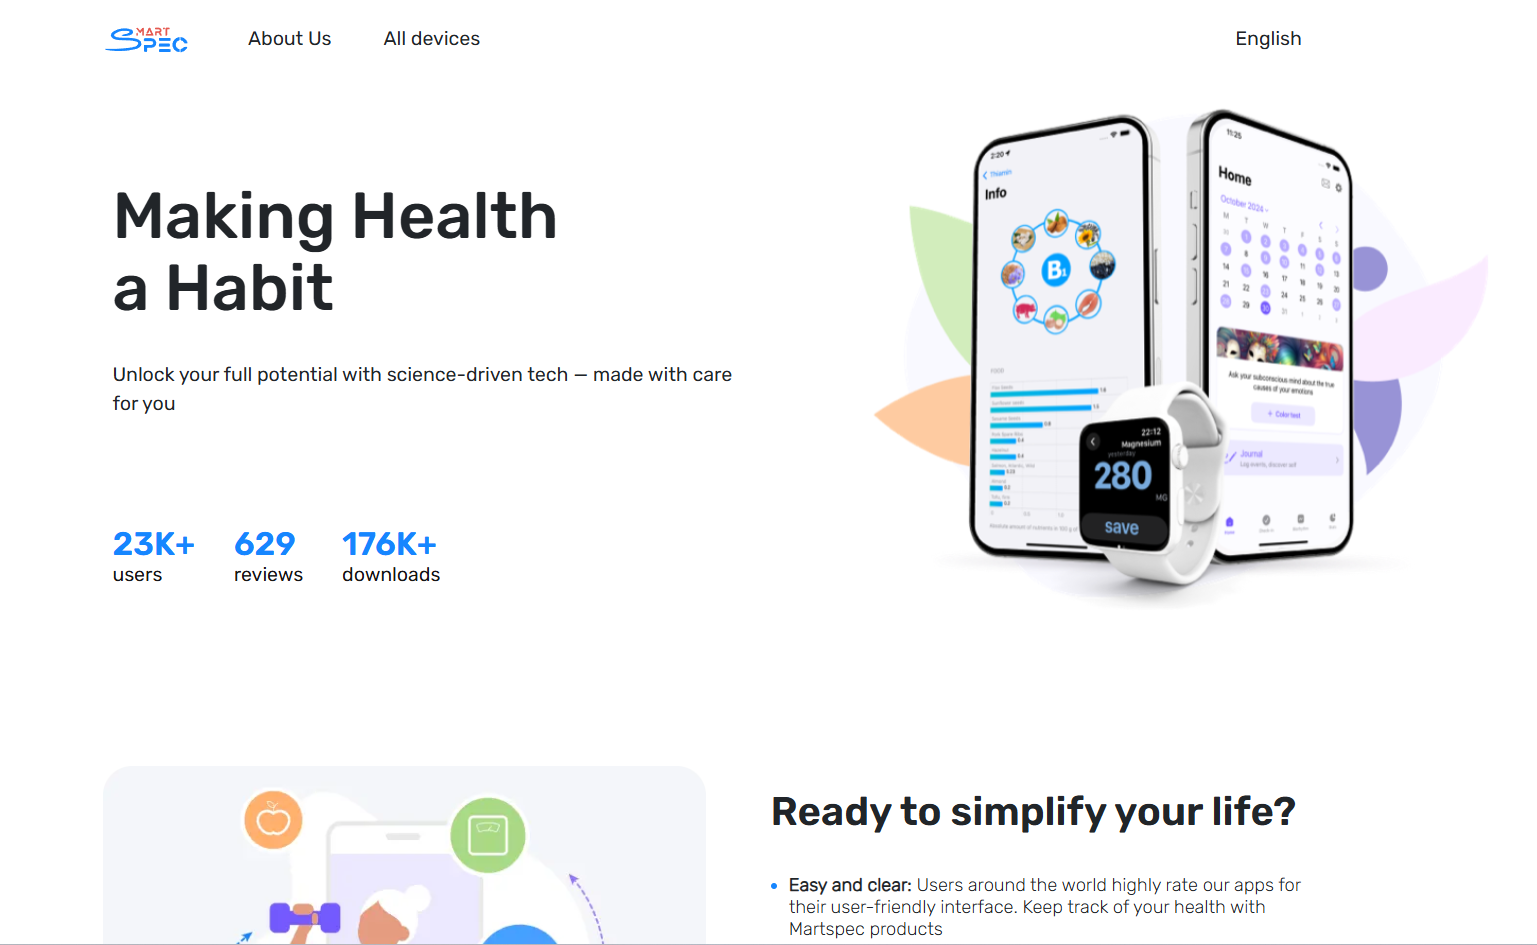
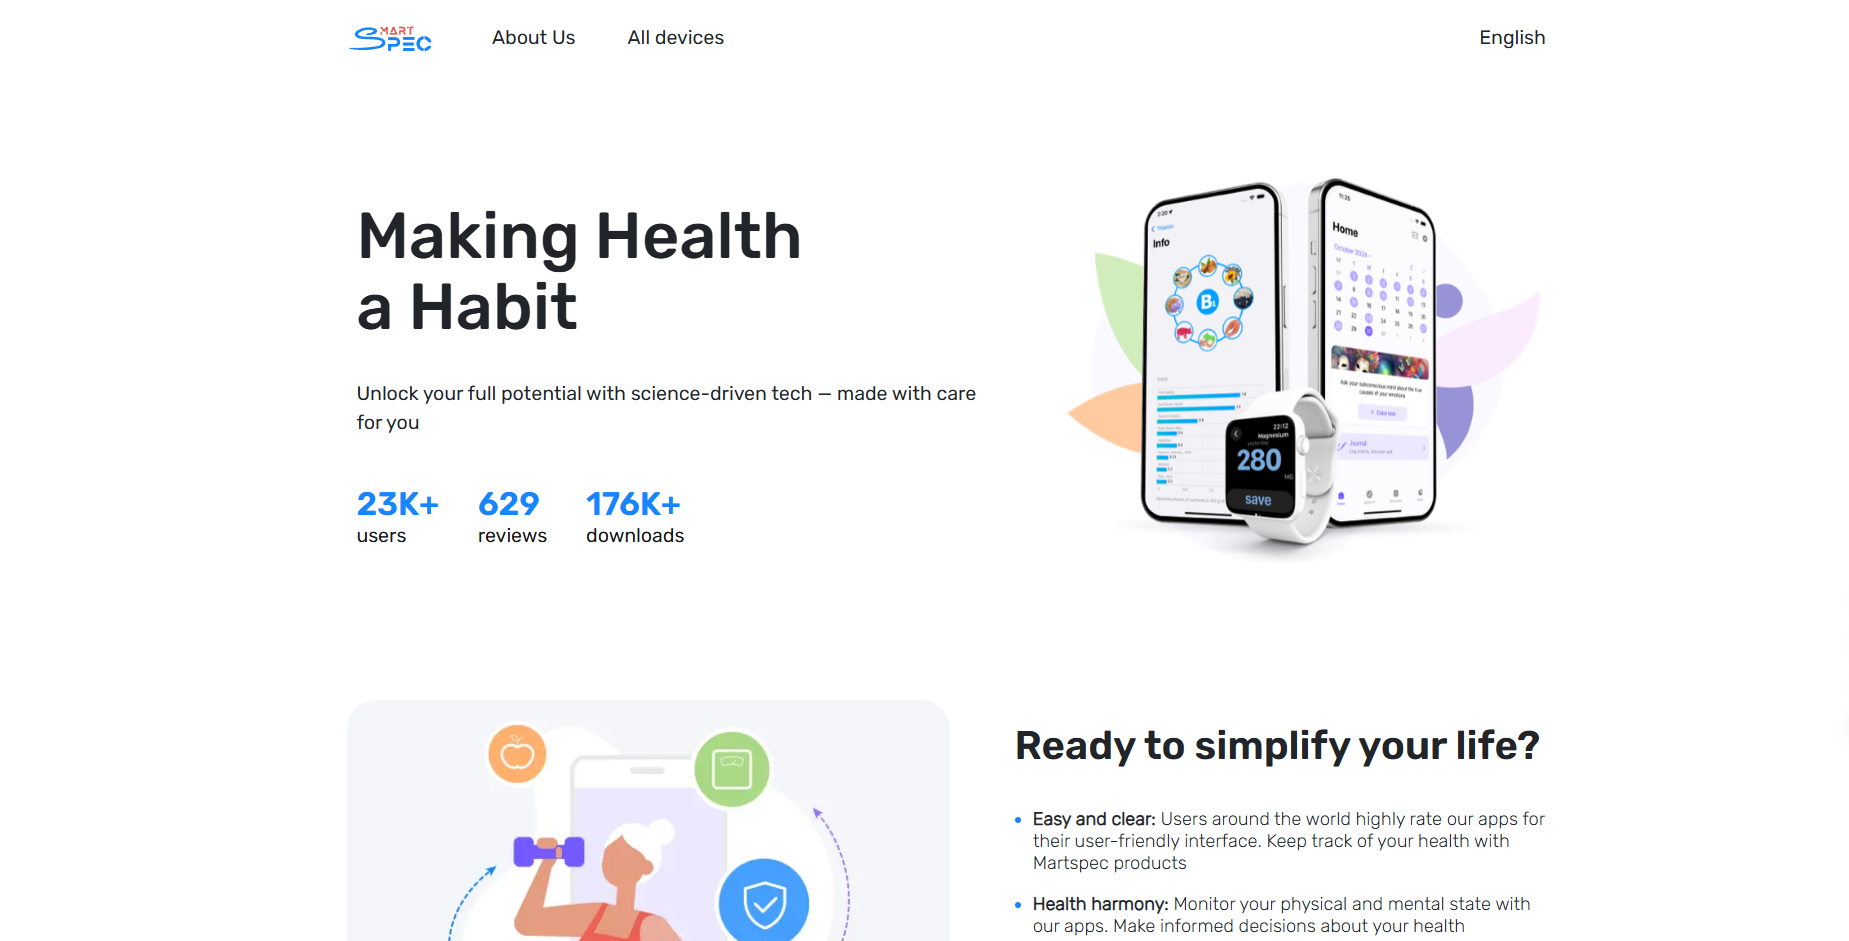
Adiciona estilo de cards para telas maiores.

diff --git a/index.html b/index.html
@@ -213,6 +213,49 @@
         </div>
       </section>
 
+      <section class="cards-projects">
+        <article class="card" id="card1">
+              <figure>
+                <img src="./img/carrossel/martspec.png" alt="MartSpec" style="width:100%; border-radius:10px;">
+                <figcaption>
+                  <h2>Dev. Front-end Voluntário</h2>
+                  <p>Trabalhei remotamente com uma equipe inovadora, criando soluções front-end para o site de apps que integram bem-estar físico e mental, seguindo metodologias ágeis e boas práticas de código.</p>
+                  <div>
+                    <a href="https://www.martspec.com" target="_blank" title="Site"><img src="./img/icons/Deploy.svg" alt="site"></a>
+                  </div>
+                </figcaption>
+              </figure>
+            </article>
+
+            <article class="card" id="card2">
+              <figure>
+                <img src="./img/carrossel/portfolio2.1.png" alt="Portfólio2.1 Tiago" style="width:100%; border-radius:10px;">
+                <figcaption>
+                  <h2>Portfólio 2.1</br>(em desenvolvimento)</h2>
+                  <p>Portfólio profissional está sendo desenvolvido com React.js, apresentando meus projetos e habilidades técnicas. Implementei roteamento dinâmico com React Router, integração com APIs (Mock API) e design responsivo.</p>
+                   <div>
+                    <a href="https://tiagoleopoldo.github.io/portfolio2.1/" target="_blank" title="Deploy"><img src="./img/icons/Deploy.svg" alt="Deploy"></a>
+                    <a href="https://github.com/TiagoLeopoldo/portfolio2.1" target="_blank" title="GitHub Code"><img src="./img/icons/Github.svg" alt="GitHub code"></a>
+                    </div>
+                </figcaption>
+              </figure>
+            </article>
+
+            <article class="card" id="card3">
+              <figure>
+                <img src="./img/carrossel/hbo.png" alt="Réplica HBO Max" style="width:100%; border-radius:10px;">
+                <figcaption>
+                  <h2>Réplica HBO Max (desfio DIO)</h2>
+                  <p>Reprodução fiel do site da HBO Max com animações CSS, tratamento de formulários e responsividade, aplicando conceitos como Grid Layout e pseudo-elementos. Exercício de aplicação de estilos CSS da Digital Innovation One - DIO.</p>
+                  <div>
+                    <a href="https://tiagoleopoldo.github.io/HBOMAX-DESAFIO-DIO/index.html" target="_blank" title="Deploy"><img src="./img/icons/Deploy.svg" alt="Deploy"></a>
+                    <a href="https://github.com/TiagoLeopoldo/HBOMAX-DESAFIO-DIO" target="_blank" title="GitHub Code"><img src="./img/icons/Github.svg" alt="GitHub code"></a>
+                  </div>
+                </figcaption>
+              </figure>
+            </article>
+      </section>
+
     </section>
   </main>
 

diff --git a/css/sectionProjects.css b/css/sectionProjects.css
@@ -11,4 +11,79 @@
   background: var(--cor-neutra-cinzaclaro);
 }
 
+.cards-projects {
+  display: none;
+}
+
+/* Estilo dos cards*/
+.card {
+  width: 25%;
+  height: 35rem;
+  padding: 1rem;
+  box-sizing: border-box;
+  display: flex;
+  flex-direction: column;
+  justify-content: flex-start;
+  align-items: center;
+  text-align: center;
+  color: #333;
+  overflow: hidden;
+  border-radius: 1rem;
+}
+
+/* Estilos individuais de fundo */
+#card1 { background-color: var(--cor-primaria); }
+#card2 { background-color: var(--cor-neutra-cinzamedio); }
+#card3 { background-color: var(--cor-secundaria); }
+
+/* Imagem do projeto */
+.card img {
+  max-width: 100%;
+  height: auto;
+  border-radius: 10px;
+  margin-bottom: 1rem;
+  box-shadow: 0 4px 8px rgba(0,0,0,0.1);
+}
+
+/* Descrição */
+.card p {
+  font-size: 1rem;
+  margin-bottom: 0.5rem;
+  color: #fff;
+}
+
+/* Título do projeto */
+.card h2 {
+  font-size: 1.5rem;
+  margin-bottom: 0.5rem;
+  color: #fff;
+}
+
+/* Links */
+.card div {
+  display: flex;
+  align-items: center;
+  justify-content: space-evenly;
+  padding: 1rem;
+}
+
+.card a img {
+    width: 4rem;
+    border: none;
+    box-shadow: none;
+}
+
+@media (min-width: 1024px) {
+  .carrossel-container {
+    display: none;
+  }
+
+  .cards-projects {
+    display: flex;
+    flex-wrap: wrap;
+    align-items: center;
+    justify-content: space-around;
+  }
+}
+
 

diff --git a/css/carrosselProjects.css b/css/carrosselProjects.css
@@ -12,7 +12,7 @@
   width: 100%;
   height: 500px;
   overflow: hidden;
-  border-radius: 15px;
+  border-radius: 1rem;
   box-shadow: 0 8px 16px rgba(0, 0, 0, 0.2);
   background-color: #fff;
 }
